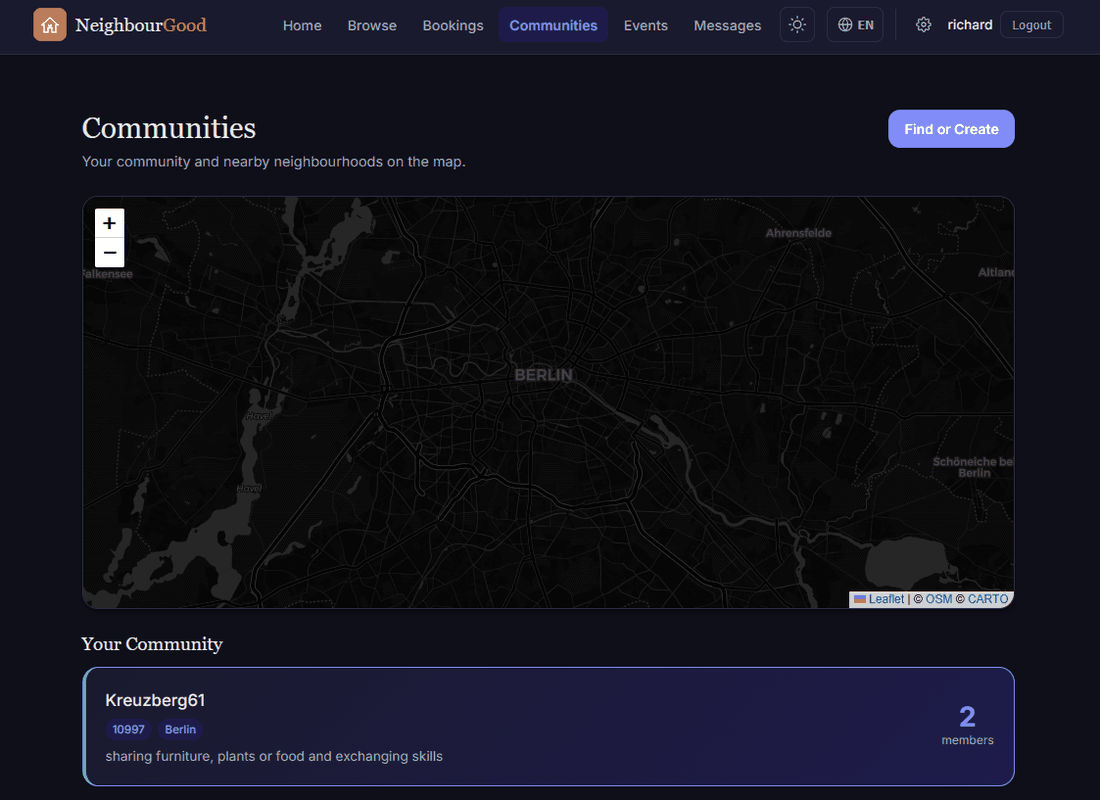
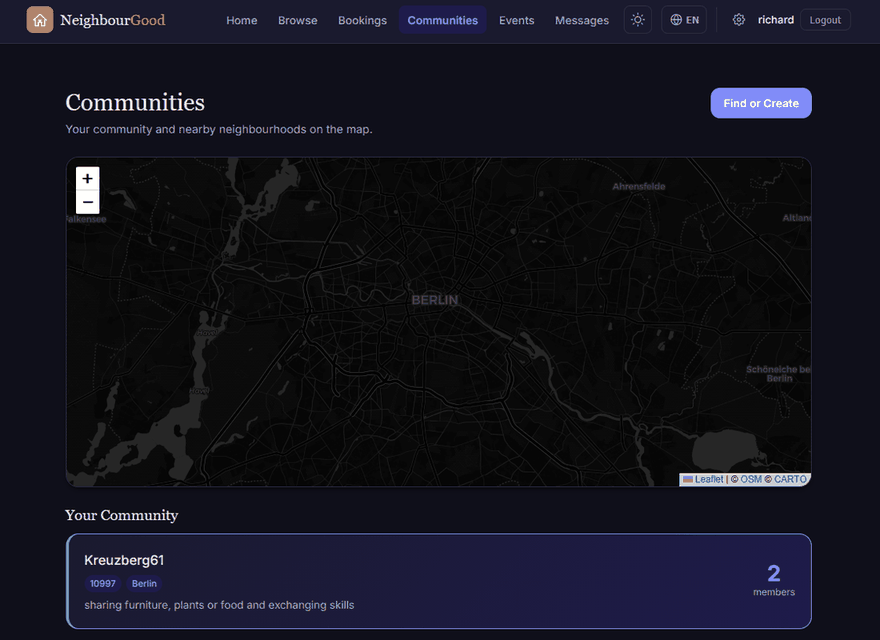
Turn screenshots section into a slideshow
Replaces the 3-up screenshot grid with a single-image slideshow (prev/next
arrows, dot navigation, autoplay) so each screenshot displays larger and
easier to read without blowing up the whole row. Also shrinks the source
images and caps the frame width so they're displayed at or below their
native resolution instead of being upscaled.

Claude-Session: https://claude.ai/code/session_019uskGPjHbtbZmwmZwU8gwU

diff --git a/index.html b/index.html
@@ -218,44 +218,43 @@
           <p>Real screens from a running NeighbourGood instance.</p>
         </div>
 
-        <div class="screenshot-grid">
-          <div class="screenshot-card reveal">
-            <div class="screenshot-frame">
-              <div class="terminal-dots" aria-hidden="true">
-                <span class="terminal-dot"></span>
-                <span class="terminal-dot"></span>
-                <span class="terminal-dot"></span>
-              </div>
-              <img src="images/screenshot-communities.png" alt="NeighbourGood Communities page showing a map of nearby neighbourhoods and the user's joined community" loading="lazy" width="1100" height="800">
+        <div class="slideshow reveal" data-slideshow>
+          <div class="slideshow-frame">
+            <div class="terminal-dots" aria-hidden="true">
+              <span class="terminal-dot"></span>
+              <span class="terminal-dot"></span>
+              <span class="terminal-dot"></span>
             </div>
-            <h3>Find Your Community</h3>
-            <p>Discover neighbourhoods on the map, join with an invite code, and see who's already sharing nearby.</p>
+            <div class="slideshow-viewport">
+              <div class="slideshow-track">
+                <div class="slideshow-slide" data-title="Find Your Community" data-desc="Discover neighbourhoods on the map, join with an invite code, and see who's already sharing nearby.">
+                  <img src="images/screenshot-communities.png" alt="NeighbourGood Communities page showing a map of nearby neighbourhoods and the user's joined community" loading="lazy" width="880" height="640">
+                </div>
+                <div class="slideshow-slide" data-title="Share What You Have" data-desc="Browse and list tools, clothing, food, and more &mdash; searchable by category so neighbours find exactly what they need.">
+                  <img src="images/screenshot-resources.png" alt="NeighbourGood Shared Resources page listing items neighbours have offered to lend, such as a winter jacket, blender, and drill" loading="lazy" width="880" height="640">
+                </div>
+                <div class="slideshow-slide" data-title="High-End Integrations" data-desc="Link Telegram for instant alerts, enable Bluetooth mesh networking for offline crisis chat, or wire up signed webhooks to Slack and Discord.">
+                  <img src="images/screenshot-settings.png" alt="NeighbourGood Settings page with Telegram notification linking and BLE mesh networking options" loading="lazy" width="880" height="640">
+                </div>
+              </div>
+            </div>
+            <button type="button" class="slideshow-arrow slideshow-prev" aria-label="Previous screenshot">
+              <svg width="18" height="18" viewBox="0 0 24 24" fill="none" stroke="currentColor" stroke-width="2" stroke-linecap="round" stroke-linejoin="round" aria-hidden="true"><polyline points="15 18 9 12 15 6"/></svg>
+            </button>
+            <button type="button" class="slideshow-arrow slideshow-next" aria-label="Next screenshot">
+              <svg width="18" height="18" viewBox="0 0 24 24" fill="none" stroke="currentColor" stroke-width="2" stroke-linecap="round" stroke-linejoin="round" aria-hidden="true"><polyline points="9 18 15 12 9 6"/></svg>
+            </button>
           </div>
 
-          <div class="screenshot-card reveal">
-            <div class="screenshot-frame">
-              <div class="terminal-dots" aria-hidden="true">
-                <span class="terminal-dot"></span>
-                <span class="terminal-dot"></span>
-                <span class="terminal-dot"></span>
-              </div>
-              <img src="images/screenshot-resources.png" alt="NeighbourGood Shared Resources page listing items neighbours have offered to lend, such as a winter jacket, blender, and drill" loading="lazy" width="1100" height="800">
-            </div>
-            <h3>Share What You Have</h3>
-            <p>Browse and list tools, clothing, food, and more &mdash; searchable by category so neighbours find exactly what they need.</p>
+          <div class="slideshow-caption">
+            <h3 data-slide-title>Find Your Community</h3>
+            <p data-slide-desc>Discover neighbourhoods on the map, join with an invite code, and see who's already sharing nearby.</p>
           </div>
 
-          <div class="screenshot-card reveal">
-            <div class="screenshot-frame">
-              <div class="terminal-dots" aria-hidden="true">
-                <span class="terminal-dot"></span>
-                <span class="terminal-dot"></span>
-                <span class="terminal-dot"></span>
-              </div>
-              <img src="images/screenshot-settings.png" alt="NeighbourGood Settings page with Telegram notification linking and BLE mesh networking options" loading="lazy" width="1100" height="800">
-            </div>
-            <h3>High-End Integrations</h3>
-            <p>Link Telegram for instant alerts, enable Bluetooth mesh networking for offline crisis chat, or wire up signed webhooks to Slack and Discord.</p>
+          <div class="slideshow-dots" role="tablist" aria-label="Screenshot slides">
+            <button type="button" class="slideshow-dot" role="tab" aria-label="Show Communities screenshot" data-slide-index="0"></button>
+            <button type="button" class="slideshow-dot" role="tab" aria-label="Show Shared Resources screenshot" data-slide-index="1"></button>
+            <button type="button" class="slideshow-dot" role="tab" aria-label="Show Settings screenshot" data-slide-index="2"></button>
           </div>
         </div>
       </div>

diff --git a/css/style.css b/css/style.css
@@ -717,47 +717,119 @@ img {
   color: var(--color-primary);
 }
 
-/* --- Screenshot Grid --- */
-.screenshot-grid {
-  display: grid;
-  grid-template-columns: repeat(3, 1fr);
-  gap: 1.5rem;
+/* --- Screenshot Slideshow --- */
+.slideshow {
+  max-width: 460px;
+  margin: 0 auto;
 }
 
-.screenshot-card {
-  text-align: left;
-}
-
-.screenshot-frame {
+.slideshow-frame {
+  position: relative;
   background: var(--color-terminal-bg);
   border-radius: var(--radius);
   padding: 0.6rem 0.6rem 0;
   box-shadow: var(--shadow-lg);
-  overflow: hidden;
-  margin-bottom: 1rem;
 }
 
-.screenshot-frame .terminal-dots {
+.slideshow-frame .terminal-dots {
   padding: 0 0.4rem 0.6rem;
 }
 
-.screenshot-frame img {
-  width: 100%;
+.slideshow-viewport {
+  overflow: hidden;
   border-radius: var(--radius-sm) var(--radius-sm) 0 0;
+}
+
+.slideshow-track {
+  display: flex;
+  transition: transform var(--transition-slow);
+}
+
+.slideshow-slide {
+  flex: 0 0 100%;
+  min-width: 0;
+}
+
+.slideshow-slide img {
+  width: 100%;
   display: block;
 }
 
-.screenshot-card h3 {
+.slideshow-arrow {
+  position: absolute;
+  top: 50%;
+  transform: translateY(-50%);
+  display: flex;
+  align-items: center;
+  justify-content: center;
+  width: 34px;
+  height: 34px;
+  border: none;
+  border-radius: 50%;
+  background: rgba(0, 0, 0, 0.45);
+  color: #fff;
+  cursor: pointer;
+  transition: background var(--transition-fast);
+}
+
+.slideshow-arrow:hover {
+  background: rgba(0, 0, 0, 0.7);
+}
+
+.slideshow-prev {
+  left: 0.6rem;
+}
+
+.slideshow-next {
+  right: 0.6rem;
+}
+
+.slideshow-caption {
+  text-align: center;
+  margin-top: 1.25rem;
+  min-height: 5.5rem;
+}
+
+.slideshow-caption h3 {
   font-family: var(--font-body);
   font-size: 1rem;
   font-weight: 600;
   margin-bottom: 0.4rem;
 }
 
-.screenshot-card p {
+.slideshow-caption p {
   font-size: 0.88rem;
   color: var(--color-text-muted);
   line-height: 1.6;
+  max-width: 420px;
+  margin: 0 auto;
+}
+
+.slideshow-dots {
+  display: flex;
+  justify-content: center;
+  gap: 0.5rem;
+  margin-top: 1rem;
+}
+
+.slideshow-dot {
+  width: 8px;
+  height: 8px;
+  padding: 0;
+  border: none;
+  border-radius: 50%;
+  background: var(--color-border);
+  cursor: pointer;
+  transition: background var(--transition-fast), transform var(--transition-fast);
+}
+
+.slideshow-dot:hover {
+  background: var(--color-border-hover);
+}
+
+.slideshow-dot.is-active {
+  background: var(--color-primary);
+  transform: scale(1.35);
 }
 
 /* --- Scenario Grid --- */
@@ -1129,8 +1201,8 @@ img {
     grid-template-columns: 1fr;
   }
 
-  .screenshot-grid {
-    grid-template-columns: 1fr;
+  .slideshow {
+    max-width: 340px;
   }
 
   .hero-endpoints {

diff --git a/js/main.js b/js/main.js
@@ -102,6 +102,71 @@
     }, { passive: true });
   }
 
+  // --- Screenshot Slideshow ---
+  document.querySelectorAll('[data-slideshow]').forEach(function (slideshow) {
+    var track = slideshow.querySelector('.slideshow-track');
+    var slides = Array.prototype.slice.call(slideshow.querySelectorAll('.slideshow-slide'));
+    var dots = Array.prototype.slice.call(slideshow.querySelectorAll('.slideshow-dot'));
+    var titleEl = slideshow.querySelector('[data-slide-title]');
+    var descEl = slideshow.querySelector('[data-slide-desc]');
+    var prevBtn = slideshow.querySelector('.slideshow-prev');
+    var nextBtn = slideshow.querySelector('.slideshow-next');
+    var index = 0;
+    var autoplayDelay = 5000;
+    var autoplayTimer = null;
+
+    function render() {
+      track.style.transform = 'translateX(-' + (index * 100) + '%)';
+      dots.forEach(function (dot, i) {
+        dot.classList.toggle('is-active', i === index);
+      });
+      var slide = slides[index];
+      if (slide && titleEl && descEl) {
+        titleEl.textContent = slide.getAttribute('data-title');
+        descEl.innerHTML = slide.getAttribute('data-desc');
+      }
+    }
+
+    function goTo(i) {
+      index = (i + slides.length) % slides.length;
+      render();
+    }
+
+    function restartAutoplay() {
+      if (autoplayTimer) clearTimeout(autoplayTimer);
+      autoplayTimer = setTimeout(function () {
+        goTo(index + 1);
+        restartAutoplay();
+      }, autoplayDelay);
+    }
+
+    if (prevBtn) {
+      prevBtn.addEventListener('click', function () {
+        goTo(index - 1);
+        restartAutoplay();
+      });
+    }
+
+    if (nextBtn) {
+      nextBtn.addEventListener('click', function () {
+        goTo(index + 1);
+        restartAutoplay();
+      });
+    }
+
+    dots.forEach(function (dot, i) {
+      dot.addEventListener('click', function () {
+        goTo(i);
+        restartAutoplay();
+      });
+    });
+
+    if (slides.length > 1) {
+      render();
+      restartAutoplay();
+    }
+  });
+
   // --- Mobile Hamburger Menu ---
   var hamburger = document.querySelector('.hamburger');
   var navLinks = document.querySelector('.nav-links');
